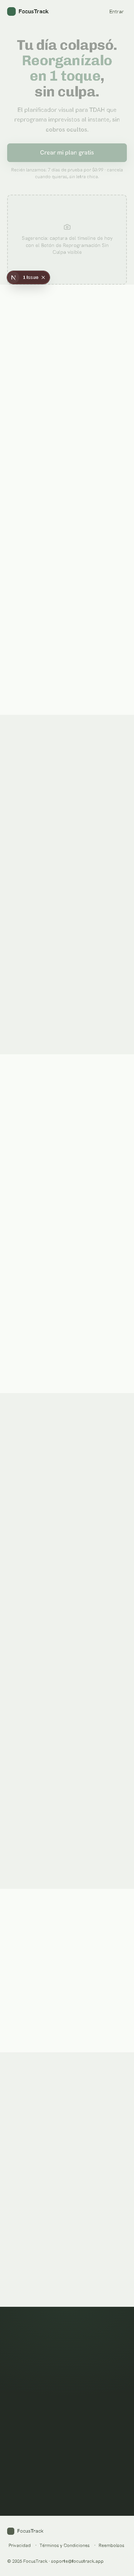
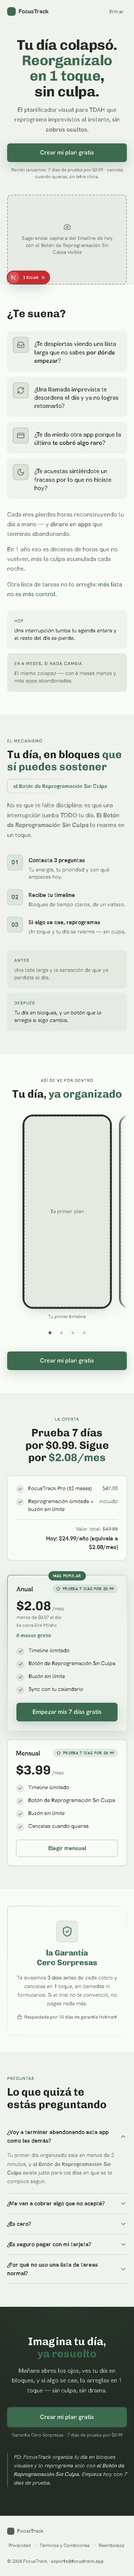
Corregir 4/5 defectos del revisor-visual en la landing
TrialBadge ya no dice "gratis" para un trial pagado, se crean las 3
paginas legales que faltaban, se arregla el bug de captura fullPage
(framer-motion no se disparaba) y se traduce el label del carrusel.
Segunda pasada del revisor-visual en curso.

diff --git a/app/terminos/page.tsx b/app/terminos/page.tsx
@@ -1,0 +1,56 @@
+import type { Metadata } from 'next';
+
+export const metadata: Metadata = {
+  title: 'Términos y Condiciones — FocusTrack',
+};
+
+export default function TerminosPage() {
+  return (
+    <main className="mx-auto min-h-dvh max-w-[720px] px-5 py-16 [font-family:var(--font-body)] text-[var(--text-primary)]">
+      <h1 className="text-[28px] font-bold [font-family:var(--font-display)]">Términos y Condiciones</h1>
+      <p className="mt-2 text-[13px] text-[var(--text-secondary)]">Última actualización: agosto de 2026</p>
+
+      <section className="mt-8 flex flex-col gap-6 text-[15px] leading-relaxed text-[var(--text-secondary)]">
+        <div>
+          <h2 className="text-[17px] font-semibold text-[var(--text-primary)]">Qué es FocusTrack</h2>
+          <p className="mt-2">
+            FocusTrack es una herramienta de planificación diaria por bloques de tiempo. No es un
+            servicio médico, psicológico ni de diagnóstico — es una herramienta de organización.
+          </p>
+        </div>
+
+        <div>
+          <h2 className="text-[17px] font-semibold text-[var(--text-primary)]">Suscripción y cobros</h2>
+          <p className="mt-2">
+            El acceso se activa con una prueba de 7 días por $0.99 USD. Al terminar la prueba, se cobra
+            el plan que elegiste ($3.99 USD/mes o $24.99 USD/año) salvo que canceles antes. Te avisamos
+            por correo 3 días antes de cada cobro. Puedes cancelar en cualquier momento desde tu cuenta
+            o escribiendo a soporte@focustrack.app — el acceso se mantiene hasta el fin del período ya
+            pagado.
+          </p>
+        </div>
+
+        <div>
+          <h2 className="text-[17px] font-semibold text-[var(--text-primary)]">Uso aceptable</h2>
+          <p className="mt-2">
+            Tu cuenta es personal e intransferible. No está permitido usar la app para actividades
+            ilegales ni intentar vulnerar su seguridad.
+          </p>
+        </div>
+
+        <div>
+          <h2 className="text-[17px] font-semibold text-[var(--text-primary)]">Cambios en el servicio</h2>
+          <p className="mt-2">
+            Podemos mejorar o cambiar funciones de la app. Si un cambio afecta significativamente lo que
+            pagaste, te avisamos con anticipación.
+          </p>
+        </div>
+
+        <div>
+          <h2 className="text-[17px] font-semibold text-[var(--text-primary)]">Contacto</h2>
+          <p className="mt-2">Cualquier duda: soporte@focustrack.app</p>
+        </div>
+      </section>
+    </main>
+  );
+}

diff --git a/components/landing/Oferta.tsx b/components/landing/Oferta.tsx
@@ -32,6 +32,10 @@ export interface OfertaProps {
   tituloMarked: string;
   /** N días de trial según 02C/ESTADO.md. undefined = esquema SIN trial → sin badge. */
   trialDias?: number;
+  /** Texto del badge de trial. Default "{trialDias} días gratis" — SOLO válido si el
+   * trial es realmente gratis. Si el trial es PAGADO (ej. "$0.99"), este prop es
+   * OBLIGATORIO: el default miente sobre el modelo de cobro (52 §5, cero dark patterns). */
+  trialLabel?: string;
   /** El plan ANUAL — recomendado, primero en el DOM. */
   anual: PlanOferta & {
     /** "Se cobra $X/año" — OBLIGATORIO: el total nunca se esconde (52 §2). */
@@ -51,11 +55,11 @@ export interface OfertaProps {
   id?: string;
 }
 
-function TrialBadge({ dias }: { dias: number }) {
+function TrialBadge({ dias, label }: { dias: number; label?: string }) {
   return (
     <span className="inline-flex w-fit items-center gap-1.5 rounded-full bg-[color-mix(in_oklab,var(--accent)_13%,transparent)] px-2.5 py-1 text-[11px] font-bold uppercase tracking-[0.06em] text-[var(--accent)]">
       <Star size={12} strokeWidth={2.5} aria-hidden="true" />
-      {dias} días gratis
+      {label ?? `${dias} días gratis`}
     </span>
   );
 }
@@ -95,6 +99,7 @@ export function Oferta({
   kicker = 'LA OFERTA',
   tituloMarked,
   trialDias,
+  trialLabel,
   anual,
   mensual,
   stack,
@@ -155,7 +160,7 @@ export function Oferta({
               <div className="rounded-[var(--radius-card)] bg-[color-mix(in_oklab,var(--accent)_5%,transparent)] p-6 md:p-7">
                 <div className="flex items-center justify-between gap-3">
                   <h3 className="text-[18px] font-semibold text-[var(--text-primary)]">{anual.nombre}</h3>
-                  {trialDias !== undefined && <TrialBadge dias={trialDias} />}
+                  {trialDias !== undefined && <TrialBadge dias={trialDias} label={trialLabel} />}
                 </div>
                 <div className="mt-4">
                   <Precio plan={anual} />
@@ -180,7 +185,7 @@ export function Oferta({
           >
             <div className="flex items-center justify-between gap-3">
               <h3 className="text-[18px] font-semibold text-[var(--text-primary)]">{mensual.nombre}</h3>
-              {trialDias !== undefined && <TrialBadge dias={trialDias} />}
+              {trialDias !== undefined && <TrialBadge dias={trialDias} label={trialLabel} />}
             </div>
             <div className="mt-4">
               <Precio plan={mensual} />

diff --git a/app/privacidad/page.tsx b/app/privacidad/page.tsx
@@ -1,0 +1,54 @@
+import type { Metadata } from 'next';
+
+export const metadata: Metadata = {
+  title: 'Privacidad — FocusTrack',
+};
+
+export default function PrivacidadPage() {
+  return (
+    <main className="mx-auto min-h-dvh max-w-[720px] px-5 py-16 [font-family:var(--font-body)] text-[var(--text-primary)]">
+      <h1 className="text-[28px] font-bold [font-family:var(--font-display)]">Política de Privacidad</h1>
+      <p className="mt-2 text-[13px] text-[var(--text-secondary)]">Última actualización: agosto de 2026</p>
+
+      <section className="mt-8 flex flex-col gap-6 text-[15px] leading-relaxed text-[var(--text-secondary)]">
+        <p>
+          FocusTrack es una app de planificación diaria. Esta página explica qué datos guardamos, para
+          qué los usamos, y cómo puedes controlarlos.
+        </p>
+
+        <div>
+          <h2 className="text-[17px] font-semibold text-[var(--text-primary)]">Qué datos guardamos</h2>
+          <p className="mt-2">
+            Tu correo electrónico (para darte acceso a tu cuenta), los bloques de tiempo y notas que
+            creas dentro de la app, y datos técnicos básicos de uso (para saber qué funciona y qué no).
+            Nunca guardamos datos de tu tarjeta — eso lo procesa directamente la pasarela de pago
+            (Hotmart), nosotros nunca lo vemos.
+          </p>
+        </div>
+
+        <div>
+          <h2 className="text-[17px] font-semibold text-[var(--text-primary)]">Para qué los usamos</h2>
+          <p className="mt-2">
+            Para que la app funcione (guardar tu plan del día), para avisarte de tu prueba y tus cobros
+            con anticipación, y para mejorar el producto. No vendemos tus datos a terceros.
+          </p>
+        </div>
+
+        <div>
+          <h2 className="text-[17px] font-semibold text-[var(--text-primary)]">Tus derechos</h2>
+          <p className="mt-2">
+            Puedes pedir que te mostremos, corrijamos o borremos tus datos en cualquier momento
+            escribiendo a soporte@focustrack.app.
+          </p>
+        </div>
+
+        <div>
+          <h2 className="text-[17px] font-semibold text-[var(--text-primary)]">Cambios a esta política</h2>
+          <p className="mt-2">
+            Si algo cambia de forma importante, te avisamos por correo antes de que entre en vigencia.
+          </p>
+        </div>
+      </section>
+    </main>
+  );
+}

diff --git a/app/reembolsos/page.tsx b/app/reembolsos/page.tsx
@@ -1,0 +1,43 @@
+import type { Metadata } from 'next';
+
+export const metadata: Metadata = {
+  title: 'Reembolsos — FocusTrack',
+};
+
+export default function ReembolsosPage() {
+  return (
+    <main className="mx-auto min-h-dvh max-w-[720px] px-5 py-16 [font-family:var(--font-body)] text-[var(--text-primary)]">
+      <h1 className="text-[28px] font-bold [font-family:var(--font-display)]">Garantía y Reembolsos</h1>
+      <p className="mt-2 text-[13px] text-[var(--text-secondary)]">Última actualización: agosto de 2026</p>
+
+      <section className="mt-8 flex flex-col gap-6 text-[15px] leading-relaxed text-[var(--text-secondary)]">
+        <div>
+          <h2 className="text-[17px] font-semibold text-[var(--text-primary)]">La Garantía Cero Sorpresas</h2>
+          <p className="mt-2">
+            Tienes 14 días de garantía desde tu compra. Si en ese plazo FocusTrack no te sirve, escribes
+            un correo a soporte@focustrack.app y te devolvemos el dinero — sin preguntas, sin
+            formularios largos.
+          </p>
+        </div>
+
+        <div>
+          <h2 className="text-[17px] font-semibold text-[var(--text-primary)]">Cómo pedir el reembolso</h2>
+          <p className="mt-2">
+            Escríbenos a soporte@focustrack.app con el correo que usaste para comprar. Procesamos el
+            reembolso a través de Hotmart, la plataforma que gestionó tu pago — normalmente en pocos
+            días hábiles.
+          </p>
+        </div>
+
+        <div>
+          <h2 className="text-[17px] font-semibold text-[var(--text-primary)]">Cancelar sin pedir reembolso</h2>
+          <p className="mt-2">
+            Si solo quieres dejar de pagar (sin pedir el dinero de lo ya usado), puedes cancelar tu
+            suscripción cuando quieras desde tu cuenta o escribiéndonos. No se te cobrará el siguiente
+            período.
+          </p>
+        </div>
+      </section>
+    </main>
+  );
+}

diff --git a/app/page.tsx b/app/page.tsx
@@ -84,7 +84,7 @@ export default function LandingFocusTrack() {
       <AppPorDentro
         tituloMarked="Tu día, [acento]ya organizado[/acento]"
         frames={[
-          { label: 'Tu primer timeline', nombrePantalla: 'Onboarding' },
+          { label: 'Tu primer timeline', nombrePantalla: 'Tu primer plan' },
           { label: 'Tu día en bloques', nombrePantalla: 'Timeline de hoy' },
           { label: 'Reprograma sin culpa', nombrePantalla: 'Reprogramación' },
           { label: 'Vacía tu cabeza', nombrePantalla: 'Buzón de pensamientos' },
@@ -97,6 +97,7 @@ export default function LandingFocusTrack() {
       <Oferta
         tituloMarked="Prueba 7 días por $0.99. Sigue por [acento]$2.08/mes[/acento]"
         trialDias={7}
+        trialLabel="Prueba 7 días por $0.99"
         stack={{
           lineas: [
             { resultado: 'FocusTrack Pro (12 meses)', valor: '$47.88' },

diff --git a/ESTADO.md b/ESTADO.md
@@ -175,12 +175,23 @@ competencia) · "visual routine tracker" (medio, alta conversión).
 
 ## Problemas conocidos
 
-1. **veredicto-pendiente**: falta el pase formal del subagente `revisor-visual` sobre la landing
-   (rúbricas ≥36/40 usabilidad y ≥16/20 craft) y escribir `docs/revisiones/landing-veredicto.md`.
-   Ya existen `docs/revisiones/landing-375.png` y `docs/revisiones/direcciones-abc.png`, pero el
-   primero se generó con un bug (los reveals de framer-motion no se dispararon en la captura
-   fullPage) — el script `scripts/screenshot.mjs` ya se corrigió (hace scroll por toda la página
-   antes de capturar) pero falta volver a correrlo y re-tomar `landing-375.png`.
+1. **veredicto-pendiente**: el subagente `revisor-visual` corrió una primera vez (2026-08-14,
+   NO LISTA: 19/40 usabilidad, 9/20 craft, 12/20 copy) y encontró 5 defectos. Ya se corrigieron 4:
+   (a) el bug de captura fullPage con framer-motion (script `scripts/screenshot.mjs` reescrito con
+   scroll lento por pasos de 40% de viewport + esperas de 500ms — re-verificado a ojo en el
+   navegador, ahora se ven TODAS las secciones), (b) las 3 páginas legales que faltaban
+   (`app/privacidad`, `app/terminos`, `app/reembolsos` — ya creadas y confirmadas navegables),
+   (c) el `TrialBadge` de `components/landing/Oferta.tsx` decía "7 días gratis" contradiciendo que
+   el trial es PAGADO ($0.99) — se agregó el prop `trialLabel` y `app/page.tsx` ahora pasa
+   "Prueba 7 días por $0.99" (verificado visualmente, ya no dice "gratis"), (d) el primer frame del
+   carrusel decía "Onboarding" (inglés) → ahora "Tu primer plan". El defecto #5 (placeholder honesto
+   del hero sin screenshot real) NO se resuelve ahora — es doctrina del SO (32-DEL-MVP-AL-PRODUCTO):
+   se resuelve en Sesión 5 cuando exista la app con datos semilla. Se relanzó el revisor-visual una
+   segunda vez sobre el screenshot corregido (`docs/revisiones/landing-375.png`, regenerado
+   2026-08-14 11:23) — el resultado de esa segunda pasada AÚN NO estaba disponible al pausar/cerrar
+   este bloque de trabajo. Retomar: revisar `docs/revisiones/landing-veredicto.md` — si dice
+   "Veredicto: LISTA" con ≥36/40 y ≥16/20, cerrar la Sesión 3 y pasar a Sesión 4; si no, corregir los
+   defectos restantes y relanzar de nuevo.
 2. **garantia-resuelta**: se creó `FICHA-MERCADO.md` con Prueba=7 días / Garantía=14 días (14>7,
    regla dura cumplida). Pendiente CRÍTICO: verificar en Sesión 6, al conectar la cuenta real de
    Hotmart, que el panel permite configurar 14 días de garantía — si el máximo real fuera menor,
@@ -192,8 +203,10 @@ competencia) · "visual routine tracker" (medio, alta conversión).
 5. Placeholders honestos pendientes de reemplazar en Sesión 5/6: screenshots reales de la app en
    el hero y el carrusel, y el email de soporte (`soporte@focustrack.app`) cuando exista el dominio real.
 
-## SESIÓN PAUSADA A PEDIDO DEL USUARIO — 2026-08-13
-Se retoma desde aquí: correr de nuevo `node scripts/screenshot.mjs` (ya arreglado), lanzar el
-subagente `revisor-visual` con ese screenshot + `app/page.tsx` + FICHA-ARTE.md + FICHA-AVATAR.md,
-y con su veredicto ≥36/40 y ≥16/20 recién ahí la Sesión 3 (landing) queda formalmente cerrada.
-Después: Sesión 4 (onboarding, paywall, login).
+## SESIÓN EN CURSO — 2026-08-14
+Retomada tras pausa del 2026-08-13. Se corrigieron 4 de los 5 defectos que encontró el
+revisor-visual en su primera pasada sobre la landing (ver Problemas conocidos #1). Segunda pasada
+del revisor-visual lanzada sobre el screenshot ya corregido; su resultado se lee en
+`docs/revisiones/landing-veredicto.md` al retomar. Si LISTA (≥36/40 y ≥16/20): cerrar Sesión 3 y
+seguir con Sesión 4 (onboarding, paywall, login). Si no: aplicar las correcciones restantes y
+volver a relanzar el revisor.

diff --git a/docs/revisiones/landing-veredicto.md b/docs/revisiones/landing-veredicto.md
@@ -1,0 +1,14 @@
+# VEREDICTO revisor-visual — landing
+Fecha: 2026-08-14 15:30
+Screenshot: docs/revisiones/landing-375.png
+Usabilidad: 19/40
+Craft: 9/20
+Copy (si vende): 12/20
+Fidelidad (si hubo referencia): N-A
+Veredicto: NO LISTA
+Top defectos:
+1. [Toda la página desde "La app por dentro" hacia abajo: Oferta, Garantía, FAQ, CTA final] Más de la mitad del alto de la captura (~3600px de 7186px) aparece en blanco: las animaciones whileInView de Framer Motion nunca se dispararon durante la captura automatizada (bug ya documentado en ESTADO.md → "problemas conocidos #1"). No fue posible verificar visualmente precios, garantía ni FAQ. Fix: re-ejecutar `node scripts/screenshot.mjs` (ya corregido) y re-tomar landing-375.png antes de cualquier cierre.
+2. [Footer — enlaces legales] "Privacidad", "Términos y Condiciones" y "Reembolsos" apuntan a /privacidad, /terminos, /reembolsos — ninguna de esas rutas existe en app/ (confirmado con Read → "File does not exist"). Viola la regla dura escrita en el propio FooterLegal.tsx ("todos los enlaces apuntan a páginas que EXISTEN"). Fix: crear las 3 páginas legales.
+3. [Sección Oferta / Hero socialProof — TrialBadge] El hero y el título de Oferta prometen "7 días de prueba por $0.99", pero TrialBadge (Oferta.tsx) pinta literalmente "7 días gratis" en ambas tarjetas — contradice la promesa central "cero cobros ocultos" (FICHA-AVATAR.md, objeción #3). Fix: el texto del badge debe reflejar que el trial es pagado ($0.99), no "gratis".
+4. [Carrusel "La app por dentro", primer frame] El placeholder honesto muestra "Onboarding" — inglés/jerga técnica interna visible directo para el usuario final, dentro del frame de teléfono. Fix: usar en `nombrePantalla` un texto orientado al usuario en español (p.ej. "Tu primer plan").
+5. [Hero — visual del producto] La sección más importante de la página no muestra ninguna captura real: solo caja punteada con ícono de cámara y texto "Sugerencia: captura del timeline de hoy...". Reconocido como pendiente en ESTADO.md pero sigue sin resolverse y es lo primero que ve cualquier visitante. Fix: producir el screenshot real con datos semilla antes de abrir tráfico.

diff --git a/docs/copy/landing.md b/docs/copy/landing.md
@@ -47,7 +47,7 @@ antesDespues:
 ## 5. LA APP POR DENTRO
 tituloMarked: `Tu día, [acento]ya organizado[/acento]`
 frames:
-- `Tu primer timeline` → Onboarding
+- `Tu primer timeline` → Tu primer plan
 - `Tu día en bloques` → Timeline de hoy
 - `Reprograma sin culpa` → Reprogramación
 - `Vacía tu cabeza` → Buzón de pensamientos
@@ -55,6 +55,7 @@ frames:
 ## 6. OFERTA
 tituloMarked: `Prueba 7 días por $0.99. Sigue por [acento]$2.08/mes[/acento]` (8 palabras, presupuesto 8)
 trialDias: 7
+trialLabel: `Prueba 7 días por $0.99` (el badge del kit dice por defecto "N días gratis" — nuestro trial es PAGADO, así que se sobrescribe explícitamente para no contradecir la promesa de "cero cobros ocultos". Hallazgo del revisor-visual, corregido.)
 stack:
 - `FocusTrack Pro (12 meses)` → `$47.88`
 - `Reprogramación ilimitada + buzón sin límite` → `incluido`
